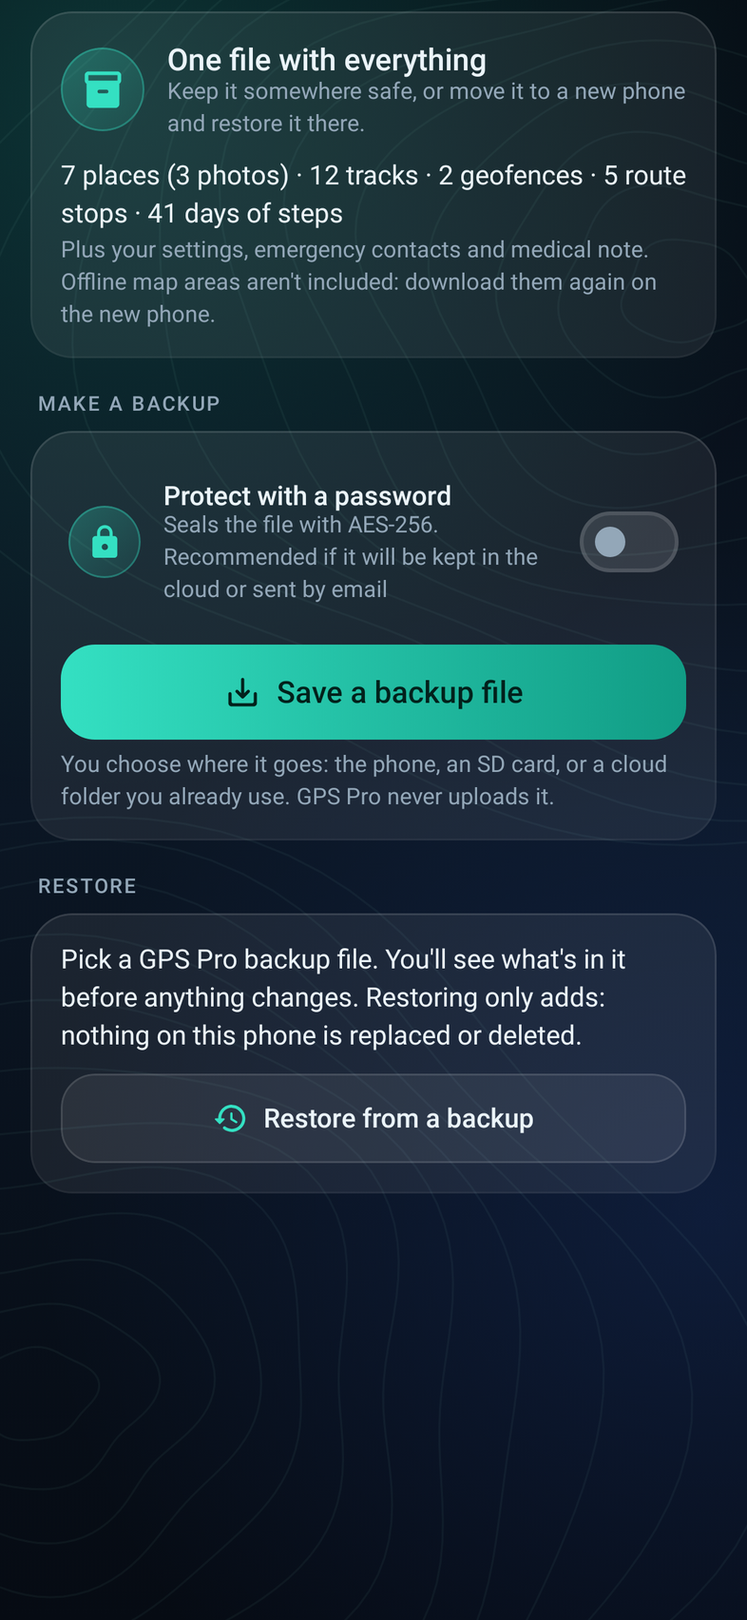
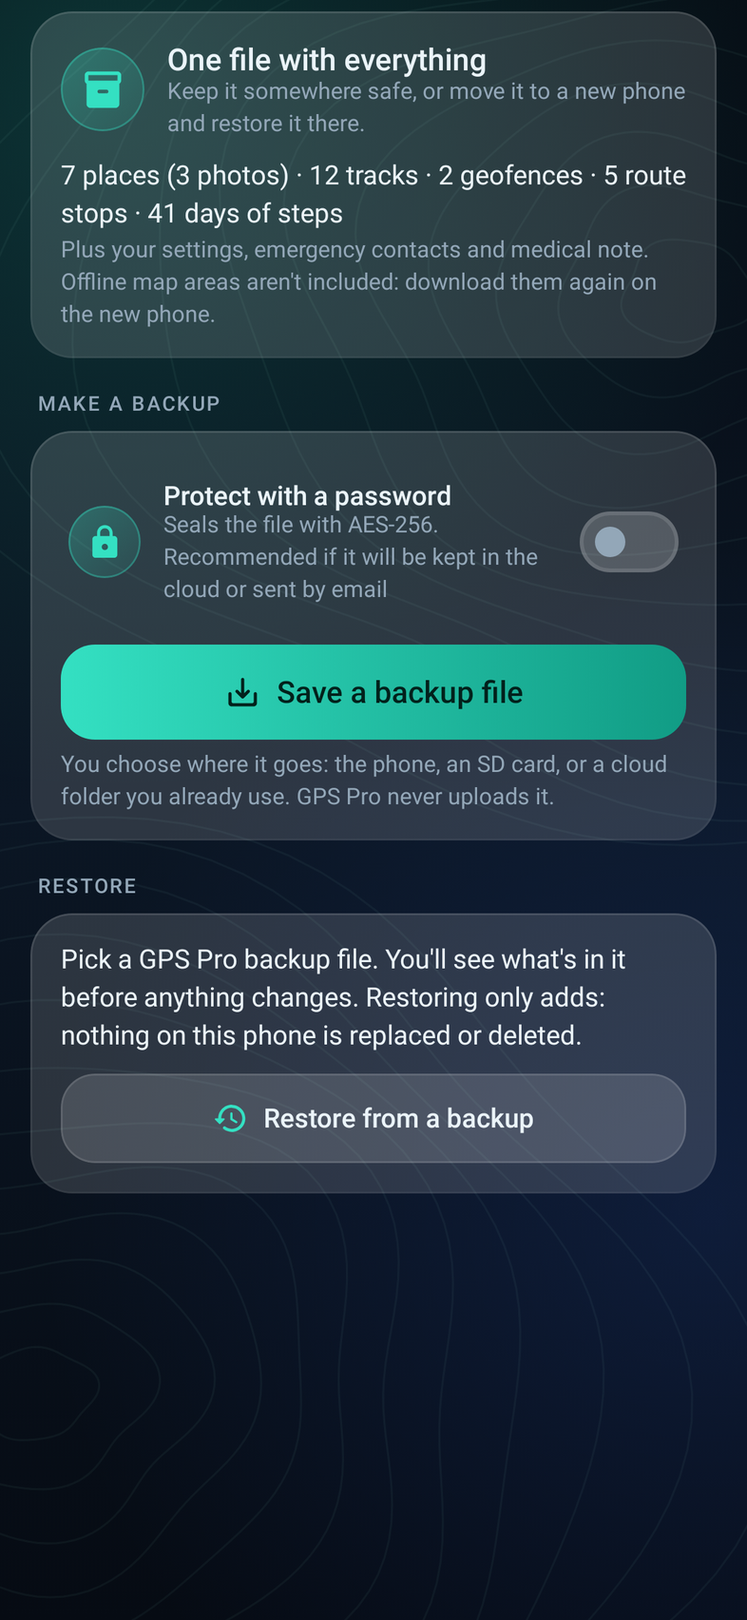
GPS Pro 1.0.1

Changed region(s): [[0.0611, 0.6532, 0.916, 0.7154], [0.7634, 0.311, 0.916, 0.3732]]

diff --git a/more-apps.html b/more-apps.html
@@ -26,9 +26,9 @@
 <link rel="preload" href="./assets/fonts/atkinson-hyperlegible-latin-400-normal.woff2" as="font" type="font/woff2" crossorigin>
 <link rel="stylesheet" href="./assets/site.css?v=1">
 <link rel="stylesheet" href="./assets/house.css?v=1">
-<script type="application/ld+json">{"@context":"https://schema.org","@type":"ItemList","name":"Apps from the maker of GPS Pro","url":"https://customgpter.github.io/gpspro/more-apps.html","itemListElement":[{"@type":"ListItem","position":1,"name":"AddTxt","url":"https://customgpter.github.io/addtxt/"},{"@type":"ListItem","position":2,"name":"Backdrop","url":"https://customgpter.github.io/backdrop/"},{"@type":"ListItem","position":3,"name":"Clearcut","url":"https://customgpter.github.io/clearcut/"},{"@type":"ListItem","position":4,"name":"Compress","url":"https://customgpter.github.io/compress/"},{"@type":"ListItem","position":5,"name":"Imprint","url":"https://customgpter.github.io/imprint/"},{"@type":"ListItem","position":6,"name":"Lightbox","url":"https://customgpter.github.io/lightbox/"},{"@type":"ListItem","position":7,"name":"Plainshot","url":"https://customgpter.github.io/plainshot/"},{"@type":"ListItem","position":8,"name":"Retag","url":"https://customgpter.github.io/retag/"},{"@type":"ListItem","position":9,"name":"ScrnSht","url":"https://customgpter.github.io/scrnsht/"},{"@type":"ListItem","position":10,"name":"Sortshot","url":"https://customgpter.github.io/sortshot/"},{"@type":"ListItem","position":11,"name":"Airwave","url":"https://customgpter.github.io/airwave/"},{"@type":"ListItem","position":12,"name":"Earshot","url":"https://customgpter.github.io/earshot/"},{"@type":"ListItem","position":13,"name":"Spoken","url":"https://customgpter.github.io/spoken/"},{"@type":"ListItem","position":14,"name":"Undertone","url":"https://customgpter.github.io/undertone/"},{"@type":"ListItem","position":15,"name":"PDF+","url":"https://customgpter.github.io/pdfplus/"},{"@type":"ListItem","position":16,"name":"ScanVault","url":"https://customgpter.github.io/scanvault/"},{"@type":"ListItem","position":17,"name":"Shelfmark","url":"https://customgpter.github.io/shelfmark/"},{"@type":"ListItem","position":18,"name":"PolyFox French","url":"https://customgpter.github.io/polyfox/"},{"@type":"ListItem","position":19,"name":"BoxTime","url":"https://customgpter.github.io/boxtime/"},{"@type":"ListItem","position":20,"name":"Calmer","url":"https://customgpter.github.io/calmer/"},{"@type":"ListItem","position":21,"name":"Dosewise","url":"https://customgpter.github.io/dosewise/"},{"@type":"ListItem","position":22,"name":"MyHabits","url":"https://customgpter.github.io/myhabits/"},{"@type":"ListItem","position":23,"name":"MySteps","url":"https://customgpter.github.io/mysteps/"},{"@type":"ListItem","position":24,"name":"QuietCycle","url":"https://customgpter.github.io/quietcycle/"},{"@type":"ListItem","position":25,"name":"Redline","url":"https://customgpter.github.io/redline/"},{"@type":"ListItem","position":26,"name":"Steady","url":"https://customgpter.github.io/steady/"},{"@type":"ListItem","position":27,"name":"Barber","url":"https://customgpter.github.io/barber/"},{"@type":"ListItem","position":28,"name":"Chair","url":"https://customgpter.github.io/chair/"},{"@type":"ListItem","position":29,"name":"MChair","url":"https://customgpter.github.io/mchair/"},{"@type":"ListItem","position":30,"name":"Agenda","url":"https://customgpter.github.io/agenda/"},{"@type":"ListItem","position":31,"name":"Axiom","url":"https://customgpter.github.io/axiom/"},{"@type":"ListItem","position":32,"name":"BlueFind","url":"https://customgpter.github.io/bluefind/"},{"@type":"ListItem","position":33,"name":"Calendar","url":"https://customgpter.github.io/calendar/"},{"@type":"ListItem","position":34,"name":"CodePro","url":"https://customgpter.github.io/codepro/"},{"@type":"ListItem","position":35,"name":"Dashwise","url":"https://customgpter.github.io/dashwise/"},{"@type":"ListItem","position":36,"name":"Daybreak","url":"https://customgpter.github.io/daybreak/"},{"@type":"ListItem","position":37,"name":"Fairdraw","url":"https://customgpter.github.io/fairdraw/"},{"@type":"ListItem","position":38,"name":"GPS Pro","url":"https://customgpter.github.io/gpspro/"},{"@type":"ListItem","position":39,"name":"KeeBoard","url":"https://customgpter.github.io/keeboard/"},{"@type":"ListItem","position":40,"name":"Loadwise","url":"https://customgpter.github.io/loadwise/"},{"@type":"ListItem","position":41,"name":"Parkwise","url":"https://customgpter.github.io/parkwise/"},{"@type":"ListItem","position":42,"name":"Refine","url":"https://customgpter.github.io/refine/"},{"@type":"ListItem","position":43,"name":"Shiftwise","url":"https://customgpter.github.io/shiftwise/"},{"@type":"ListItem","position":44,"name":"SimpleCalc","url":"https://customgpter.github.io/simplecalc/"},{"@type":"ListItem","position":45,"name":"Skyline","url":"https://customgpter.github.io/skyline/"},{"@type":"ListItem","position":46,"name":"Tagger","url":"https://customgpter.github.io/tagger/"},{"@type":"ListItem","position":47,"name":"TotalClean","url":"https://customgpter.github.io/totalclean/"},{"@type":"ListItem","position":48,"name":"WiFi Scan","url":"https://customgpter.github.io/wifiscan/"},{"@type":"ListItem","position":49,"name":"Auditly","url":"https://customgpter.github.io/auditly/"},{"@type":"ListItem","position":50,"name":"Backchannel","url":"https://customgpter.github.io/backchannel/"},{"@type":"ListItem","position":51,"name":"ENotes","url":"https://customgpter.github.io/enotes/"},{"@type":"ListItem","position":52,"name":"iLock","url":"https://customgpter.github.io/ilock/"},{"@type":"ListItem","position":53,"name":"ImSafe","url":"https://customgpter.github.io/imsafe/"},{"@type":"ListItem","position":54,"name":"LockBox","url":"https://customgpter.github.io/lockbox/"},{"@type":"ListItem","position":55,"name":"SpyFind","url":"https://customgpter.github.io/spyfind/"},{"@type":"ListItem","position":56,"name":"Tracewire","url":"https://customgpter.github.io/tracewire/"},{"@type":"ListItem","position":57,"name":"Vigil","url":"https://customgpter.github.io/vigil/"},{"@type":"ListItem","position":58,"name":"Grab","url":"https://customgpter.github.io/grab/"},{"@type":"ListItem","position":59,"name":"Swarm","url":"https://customgpter.github.io/swarm/"},{"@type":"ListItem","position":60,"name":"Plane Games","url":"https://customgpter.github.io/plane-games/"},{"@type":"ListItem","position":61,"name":"Ninefold","url":"https://customgpter.github.io/ninefold/"},{"@type":"ListItem","position":62,"name":"Cubewise","url":"https://customgpter.github.io/cubewise/"},{"@type":"ListItem","position":63,"name":"Tilewise","url":"https://customgpter.github.io/tilewise/"},{"@type":"ListItem","position":64,"name":"Letterwise","url":"https://customgpter.github.io/letterwise/"},{"@type":"ListItem","position":65,"name":"Kingside","url":"https://customgpter.github.io/kingside/"},{"@type":"ListItem","position":66,"name":"Deckhand","url":"https://customgpter.github.io/deckhand/"},{"@type":"ListItem","position":67,"name":"QVR","url":"https://customgpter.github.io/qvr/"},{"@type":"ListItem","position":68,"name":"QVR Watch","url":"https://customgpter.github.io/qvr-watch/"},{"@type":"ListItem","position":69,"name":"QVRLite","url":"https://customgpter.github.io/qvrlite/"},{"@type":"ListItem","position":70,"name":"Onionz","url":"https://customgpter.github.io/onionz/"},{"@type":"ListItem","position":71,"name":"OnionzWeb","url":"https://customgpter.github.io/onionzweb/"}]}</script>
 <link rel="stylesheet" href="./assets/apps-list.css?v=1">
 <script src="./assets/apps-list.js?v=1" defer></script>
+<script type="application/ld+json">{"@context":"https://schema.org","@type":"ItemList","name":"Apps from the maker of GPS Pro","url":"https://customgpter.github.io/gpspro/more-apps.html","itemListElement":[{"@type":"ListItem","position":1,"name":"AddTxt","url":"https://customgpter.github.io/addtxt/"},{"@type":"ListItem","position":2,"name":"Backdrop","url":"https://customgpter.github.io/backdrop/"},{"@type":"ListItem","position":3,"name":"Clearcut","url":"https://customgpter.github.io/clearcut/"},{"@type":"ListItem","position":4,"name":"Compress","url":"https://customgpter.github.io/compress/"},{"@type":"ListItem","position":5,"name":"Imprint","url":"https://customgpter.github.io/imprint/"},{"@type":"ListItem","position":6,"name":"Lightbox","url":"https://customgpter.github.io/lightbox/"},{"@type":"ListItem","position":7,"name":"Plainshot","url":"https://customgpter.github.io/plainshot/"},{"@type":"ListItem","position":8,"name":"Retag","url":"https://customgpter.github.io/retag/"},{"@type":"ListItem","position":9,"name":"ScrnSht","url":"https://customgpter.github.io/scrnsht/"},{"@type":"ListItem","position":10,"name":"Sortshot","url":"https://customgpter.github.io/sortshot/"},{"@type":"ListItem","position":11,"name":"Airwave","url":"https://customgpter.github.io/airwave/"},{"@type":"ListItem","position":12,"name":"Earshot","url":"https://customgpter.github.io/earshot/"},{"@type":"ListItem","position":13,"name":"Spoken","url":"https://customgpter.github.io/spoken/"},{"@type":"ListItem","position":14,"name":"Undertone","url":"https://customgpter.github.io/undertone/"},{"@type":"ListItem","position":15,"name":"PDF+","url":"https://customgpter.github.io/pdfplus/"},{"@type":"ListItem","position":16,"name":"ScanVault","url":"https://customgpter.github.io/scanvault/"},{"@type":"ListItem","position":17,"name":"Shelfmark","url":"https://customgpter.github.io/shelfmark/"},{"@type":"ListItem","position":18,"name":"PolyFox French","url":"https://customgpter.github.io/polyfox/"},{"@type":"ListItem","position":19,"name":"BoxTime","url":"https://customgpter.github.io/boxtime/"},{"@type":"ListItem","position":20,"name":"Calmer","url":"https://customgpter.github.io/calmer/"},{"@type":"ListItem","position":21,"name":"Dosewise","url":"https://customgpter.github.io/dosewise/"},{"@type":"ListItem","position":22,"name":"MyHabits","url":"https://customgpter.github.io/myhabits/"},{"@type":"ListItem","position":23,"name":"MySteps","url":"https://customgpter.github.io/mysteps/"},{"@type":"ListItem","position":24,"name":"QuietCycle","url":"https://customgpter.github.io/quietcycle/"},{"@type":"ListItem","position":25,"name":"Redline","url":"https://customgpter.github.io/redline/"},{"@type":"ListItem","position":26,"name":"Steady","url":"https://customgpter.github.io/steady/"},{"@type":"ListItem","position":27,"name":"Barber","url":"https://customgpter.github.io/barber/"},{"@type":"ListItem","position":28,"name":"Chair","url":"https://customgpter.github.io/chair/"},{"@type":"ListItem","position":29,"name":"MChair","url":"https://customgpter.github.io/mchair/"},{"@type":"ListItem","position":30,"name":"Agenda","url":"https://customgpter.github.io/agenda/"},{"@type":"ListItem","position":31,"name":"Axiom","url":"https://customgpter.github.io/axiom/"},{"@type":"ListItem","position":32,"name":"BlueFind","url":"https://customgpter.github.io/bluefind/"},{"@type":"ListItem","position":33,"name":"Calendar","url":"https://customgpter.github.io/calendar/"},{"@type":"ListItem","position":34,"name":"CodePro","url":"https://customgpter.github.io/codepro/"},{"@type":"ListItem","position":35,"name":"Dashwise","url":"https://customgpter.github.io/dashwise/"},{"@type":"ListItem","position":36,"name":"Daybreak","url":"https://customgpter.github.io/daybreak/"},{"@type":"ListItem","position":37,"name":"Fairdraw","url":"https://customgpter.github.io/fairdraw/"},{"@type":"ListItem","position":38,"name":"GPS Pro","url":"https://customgpter.github.io/gpspro/"},{"@type":"ListItem","position":39,"name":"KeeBoard","url":"https://customgpter.github.io/keeboard/"},{"@type":"ListItem","position":40,"name":"Loadwise","url":"https://customgpter.github.io/loadwise/"},{"@type":"ListItem","position":41,"name":"Parkwise","url":"https://customgpter.github.io/parkwise/"},{"@type":"ListItem","position":42,"name":"Refine","url":"https://customgpter.github.io/refine/"},{"@type":"ListItem","position":43,"name":"Shiftwise","url":"https://customgpter.github.io/shiftwise/"},{"@type":"ListItem","position":44,"name":"SimpleCalc","url":"https://customgpter.github.io/simplecalc/"},{"@type":"ListItem","position":45,"name":"Skyline","url":"https://customgpter.github.io/skyline/"},{"@type":"ListItem","position":46,"name":"Tagger","url":"https://customgpter.github.io/tagger/"},{"@type":"ListItem","position":47,"name":"TotalClean","url":"https://customgpter.github.io/totalclean/"},{"@type":"ListItem","position":48,"name":"WiFi Scan","url":"https://customgpter.github.io/wifiscan/"},{"@type":"ListItem","position":49,"name":"Auditly","url":"https://customgpter.github.io/auditly/"},{"@type":"ListItem","position":50,"name":"Backchannel","url":"https://customgpter.github.io/backchannel/"},{"@type":"ListItem","position":51,"name":"ENotes","url":"https://customgpter.github.io/enotes/"},{"@type":"ListItem","position":52,"name":"iLock","url":"https://customgpter.github.io/ilock/"},{"@type":"ListItem","position":53,"name":"ImSafe","url":"https://customgpter.github.io/imsafe/"},{"@type":"ListItem","position":54,"name":"LockBox","url":"https://customgpter.github.io/lockbox/"},{"@type":"ListItem","position":55,"name":"SpyFind","url":"https://customgpter.github.io/spyfind/"},{"@type":"ListItem","position":56,"name":"Tracewire","url":"https://customgpter.github.io/tracewire/"},{"@type":"ListItem","position":57,"name":"Vigil","url":"https://customgpter.github.io/vigil/"},{"@type":"ListItem","position":58,"name":"Grab","url":"https://customgpter.github.io/grab/"},{"@type":"ListItem","position":59,"name":"Swarm","url":"https://customgpter.github.io/swarm/"},{"@type":"ListItem","position":60,"name":"Plane Games","url":"https://customgpter.github.io/plane-games/"},{"@type":"ListItem","position":61,"name":"Ninefold","url":"https://customgpter.github.io/ninefold/"},{"@type":"ListItem","position":62,"name":"Cubewise","url":"https://customgpter.github.io/cubewise/"},{"@type":"ListItem","position":63,"name":"Tilewise","url":"https://customgpter.github.io/tilewise/"},{"@type":"ListItem","position":64,"name":"Letterwise","url":"https://customgpter.github.io/letterwise/"},{"@type":"ListItem","position":65,"name":"Kingside","url":"https://customgpter.github.io/kingside/"},{"@type":"ListItem","position":66,"name":"Deckhand","url":"https://customgpter.github.io/deckhand/"},{"@type":"ListItem","position":67,"name":"QVR","url":"https://customgpter.github.io/qvr/"},{"@type":"ListItem","position":68,"name":"QVR Watch","url":"https://customgpter.github.io/qvr-watch/"},{"@type":"ListItem","position":69,"name":"QVRLite","url":"https://customgpter.github.io/qvrlite/"},{"@type":"ListItem","position":70,"name":"Onionz","url":"https://customgpter.github.io/onionz/"},{"@type":"ListItem","position":71,"name":"OnionzWeb","url":"https://customgpter.github.io/onionzweb/"}]}</script>
 </head>
 <body>
 <a class="skip" href="#main">Skip to content</a>

diff --git a/index.html b/index.html
@@ -28,7 +28,7 @@
 <link rel="stylesheet" href="./assets/house.css?v=1">
 <link rel="stylesheet" href="./assets/apps-list.css?v=1">
 <script src="./assets/apps-list.js?v=1" defer></script>
-<script type="application/ld+json">{"@context":"https://schema.org","@type":"SoftwareApplication","name":"GPS Pro","url":"https://customgpter.github.io/gpspro/","description":"GPS Pro is a free Android GPS toolbox: your position in every format including OS grid references, compass, speedometer, satellites, offline maps with contours, track recording, altimeter, GPS alarm, geofences, route optimiser, Met Office weather warnings, UK air quality, sun and moon, and an emergency screen. No adverts, no account, and every online extra off until you switch it on.","applicationCategory":"UtilitiesApplication","operatingSystem":"Android 10 or later","softwareVersion":"1.0.0","downloadUrl":"https://github.com/CustomGPTer/gpspro/releases/latest/download/GPSPro.apk","releaseNotes":"https://customgpter.github.io/gpspro/releases.html","offers":{"@type":"Offer","price":"0","priceCurrency":"GBP"},"inLanguage":"en-GB","image":"https://customgpter.github.io/gpspro/assets/og.png","featureList":["Seven formats","Compass","Satellites and GPS time","Coordinate converter","Street and Topo","Offline areas","Map Tools","Saved places","Track recorder","Speedometer","Altimeter and steps","GPS alarm and geofences"],"author":{"@type":"Person","name":"Jonathan Jackson"}}</script>
+<script type="application/ld+json">{"@context":"https://schema.org","@type":"SoftwareApplication","name":"GPS Pro","url":"https://customgpter.github.io/gpspro/","description":"GPS Pro is a free Android GPS toolbox: your position in every format including OS grid references, compass, speedometer, satellites, offline maps with contours, track recording, altimeter, GPS alarm, geofences, route optimiser, Met Office weather warnings, UK air quality, sun and moon, and an emergency screen. No adverts, no account, and every online extra off until you switch it on.","applicationCategory":"UtilitiesApplication","operatingSystem":"Android 10 or later","softwareVersion":"1.0.1","downloadUrl":"https://github.com/CustomGPTer/gpspro/releases/latest/download/GPSPro.apk","releaseNotes":"https://customgpter.github.io/gpspro/releases.html","offers":{"@type":"Offer","price":"0","priceCurrency":"GBP"},"inLanguage":"en-GB","image":"https://customgpter.github.io/gpspro/assets/og.png","featureList":["Seven formats","Compass","Satellites and GPS time","Coordinate converter","Street and Topo","Offline areas","Map Tools","Saved places","Track recorder","Speedometer","Altimeter and steps","GPS alarm and geofences"],"author":{"@type":"Person","name":"Jonathan Jackson"}}</script>
 <script type="application/ld+json">{"@context":"https://schema.org","@type":"FAQPage","mainEntity":[{"@type":"Question","name":"Is GPS Pro really free?","acceptedAnswer":{"@type":"Answer","text":"Yes. There is no paid version, no subscription and no adverts, and all 23 tools are there from the start."}},{"@type":"Question","name":"Is it on Google Play?","acceptedAnswer":{"@type":"Answer","text":"No. GPS Pro is a personal project and is downloaded from this site as an Android app file. It needs Android 10 or later."}},{"@type":"Question","name":"Does it need the internet?","acceptedAnswer":{"@type":"Answer","text":"No. Your position, the compass, speedometer, satellites, level, sensors, tracks, altimeter, alarms, geofences, sun and moon, the emergency screen and the torch all work with no signal. Maps work with no signal once you have downloaded an area. Search, addresses, road distances, weather and air quality need the internet, and only after you switch them on."}},{"@type":"Question","name":"What does it send when I switch an extra on?","acceptedAnswer":{"@type":"Answer","text":"Each extra says before you switch it on. Maps send only which map squares to fetch, never your position. Weather and air quality send your position rounded to about 1 km. Met Office warnings are one list for the whole UK, so nothing about you is sent for them; the phone picks out your area itself. Every connection is listed in Settings, Network log."}},{"@type":"Question","name":"Does it track me in the background?","acceptedAnswer":{"@type":"Answer","text":"No. GPS Pro never asks for location all the time. It keeps using GPS after you leave the app only while you are recording a track, running a GPS alarm or watching a geofence, or if you switch on the GPS status notification, and Android shows a notification the whole time."}},{"@type":"Question","name":"How accurate is it?","acceptedAnswer":{"@type":"Answer","text":"As accurate as your phone's GPS, which is usually within 3 to 5 metres in the open and worse among tall buildings and trees. GPS Pro shows the accuracy with every reading. OS grid references use Ordnance Survey's published conversion, accurate to about 5 metres."}},{"@type":"Question","name":"Can I use it with no signal in the hills?","acceptedAnswer":{"@type":"Answer","text":"Yes. GPS works anywhere with a view of the sky. Download the map area before you go, in Settings, Offline maps, and the map, contour lines and heights all work with no signal."}},{"@type":"Question","name":"How do I move my places and tracks to a new phone?","acceptedAnswer":{"@type":"Answer","text":"Settings, Backup and restore, Save a backup file. Put the file somewhere you can reach from the new phone, then choose Restore from a backup there. You can seal the file with a password."}},{"@type":"Question","name":"Can it call 999 for me?","acceptedAnswer":{"@type":"Answer","text":"The emergency screen opens your phone's dialler with 999 or 112 ready, and you press call. It can also open your messages app with your position written out for up to five contacts. GPS Pro never calls or texts by itself."}},{"@type":"Question","name":"Does it work on an iPhone?","acceptedAnswer":{"@type":"Answer","text":"No. GPS Pro is for Android phones and tablets only."}},{"@type":"Question","name":"Who made it?","acceptedAnswer":{"@type":"Answer","text":"GPS Pro is made by Jonathan Jackson, an independent developer in the United Kingdom."}}]}</script>
 </head>
 <body>
@@ -48,7 +48,7 @@
 <p class="lede">GPS Pro puts 23 tools in one app: your position in seven formats including OS grid references, a compass that points to your saved places, a speedometer, a satellite sky plot, maps with contour lines you can download for no signal, a track recorder, an altimeter, a GPS alarm for your stop, geofences and a route optimiser.</p><p class="lede">Then weather with Met Office warnings, the UK air quality index, sun and moon times, an emergency screen and a torch. There are no adverts and no account, and nothing goes online until you switch that extra on. Every connection it makes is listed in the app.</p>
 
 <p class="get" id="download"><a class="button" href="https://github.com/CustomGPTer/gpspro/releases/latest/download/GPSPro.apk"><svg class="ico" viewBox="0 0 24 24" aria-hidden="true"><path d="M12 4v11"/><path d="M7 10.5l5 5 5-5"/><path d="M5 20h14"/></svg>Download for Android</a><a class="aside" href="#install">How to install</a></p>
-<ul class="pills"><li>Version 1.0.0</li><li>Android 10 or later</li><li>27.1 MB</li></ul>
+<ul class="pills"><li>Version 1.0.1</li><li>Android 10 or later</li><li>27.1 MB</li></ul>
 <p class="facts">Free, with nothing to unlock. No adverts, no account with the developer, no tracking. <a href="compare.html">Compare</a> or read the <a href="releases.html">release notes</a>.</p>
 <p class="facts">Chrome may say the file might be harmful. It shows this for app files that do not come from Google Play. Choose Download anyway.</p>
 </div>
@@ -96,7 +96,7 @@
 <h2 id="install-h">Installing and updating</h2>
 <p class="intro">GPS Pro is not on Google Play, so your phone asks a couple of extra questions the first time.</p>
 <ol class="steps"><li><h3>Download the app file</h3><p>Tap Download on your phone. The file is called GPSPro.apk and is about 27.1 MB. If Chrome says the file might be harmful, choose Download anyway.</p></li><li><h3>Allow the install</h3><p>Open the file. The first time, Android asks you to allow your browser to install apps. Allow it, go back and tap Install. If Google Play Protect steps in, choose More details, then Install anyway.</p></li><li><h3>Updating later</h3><p>GPS Pro doesn't check for updates by itself. Settings, About GPS Pro, Newer version? opens the release notes in your browser. Install the new file over the old one and your places, tracks, geofences and settings are kept. Settings, Backup and restore makes a copy first if you want one.</p></li></ol>
-<p class="after-table">Version 1.0.0, released 24 November 2026. See the <a href="releases.html">release notes</a>, or <a href="releases.html#checking">check your download</a>.</p>
+<p class="after-table">Version 1.0.1, released 24 November 2026. See the <a href="releases.html">release notes</a>, or <a href="releases.html#checking">check your download</a>.</p>
 </div>
 </section>
 

diff --git a/releases.html b/releases.html
@@ -43,10 +43,11 @@
 <div class="measure">
 <h1>Release notes</h1>
 <p class="lede">What changed in each version of GPS Pro. The newest is at the top.</p>
-<section class="release" id="v1.0.0"><h2><span class="ver">Version 1.0.0</span> <span class="when">24 November 2026</span><span class="tag">Latest</span></h2><ul><li><b>First release.</b> 23 GPS tools for Android, with every online extra off until you switch it on.</li><li>Your position in seven formats including OS grid references, compass with target bearing, speedometer with head-up display, satellites, level, coordinate converter, GPS time, sensors and magnetometer.</li><li>Street and Topo maps with hill shading and contour lines, offline areas, place and postcode search, Map Tools and saved places with photos.</li><li>Track recorder with auto-pause, splits, charts and GPX and KML, altimeter, step tracker, GPS alarm, geofences shared by link or QR code, and a route optimiser for up to 60 stops.</li><li>Weather with Met Office warnings, a seven-day forecast, the UK air quality index with pollen, and sun and moon times.</li><li>Emergency screen, flashlight with SOS and Morse, position and shortcut widgets, and an optional GPS status notification.</li><li>Backup and restore in one file, with an optional password.</li><li>Dark, black, light and night red themes with night mode sliders, and every unit you need.</li></ul></section>
+<section class="release" id="v1.0.1"><h2><span class="ver">Version 1.0.1</span> <span class="when">24 November 2026</span><span class="tag">Latest</span></h2><ul><li>Every page now scrolls far enough for its last card to sit clear of the bottom bar, whatever navigation buttons or gestures your phone uses.</li><li>Cards and tiles are a little more solid, so the contour lines behind them show through less.</li></ul></section>
+<section class="release" id="v1.0.0"><h2><span class="ver">Version 1.0.0</span> <span class="when">24 November 2026</span></h2><ul><li><b>First release.</b> 23 GPS tools for Android, with every online extra off until you switch it on.</li><li>Your position in seven formats including OS grid references, compass with target bearing, speedometer with head-up display, satellites, level, coordinate converter, GPS time, sensors and magnetometer.</li><li>Street and Topo maps with hill shading and contour lines, offline areas, place and postcode search, Map Tools and saved places with photos.</li><li>Track recorder with auto-pause, splits, charts and GPX and KML, altimeter, step tracker, GPS alarm, geofences shared by link or QR code, and a route optimiser for up to 60 stops.</li><li>Weather with Met Office warnings, a seven-day forecast, the UK air quality index with pollen, and sun and moon times.</li><li>Emergency screen, flashlight with SOS and Morse, position and shortcut widgets, and an optional GPS status notification.</li><li>Backup and restore in one file, with an optional password.</li><li>Dark, black, light and night red themes with night mode sliders, and every unit you need.</li></ul></section>
 <h2 id="checking">Checking your download</h2>
-<p>The file for version 1.0.0 is called <code>GPSPro.apk</code>. It is 27.1 MB (27,086,672 bytes). Its SHA-256 checksum is:</p>
-<p><code class="sum">bc40ab63686d3399f9c1a3484507b5ae6e4bece35a07ab934c51180a97cc134a</code></p>
+<p>The file for version 1.0.1 is called <code>GPSPro.apk</code>. It is 27.1 MB (27,086,676 bytes). Its SHA-256 checksum is:</p>
+<p><code class="sum">7e4d5aa211d02aacf94abf40752177a3914d29ce17f9d8b9cbd16fd3515a119a</code></p>
 <p>On Windows, run <code>certutil -hashfile GPSPro.apk SHA256</code> and compare. Every version is signed with the same key, so each one installs over the last and keeps what you have saved.</p>
 <p>Older versions are on the <a href="https://github.com/CustomGPTer/gpspro/releases">GitHub releases page</a>.</p>
 </div>
